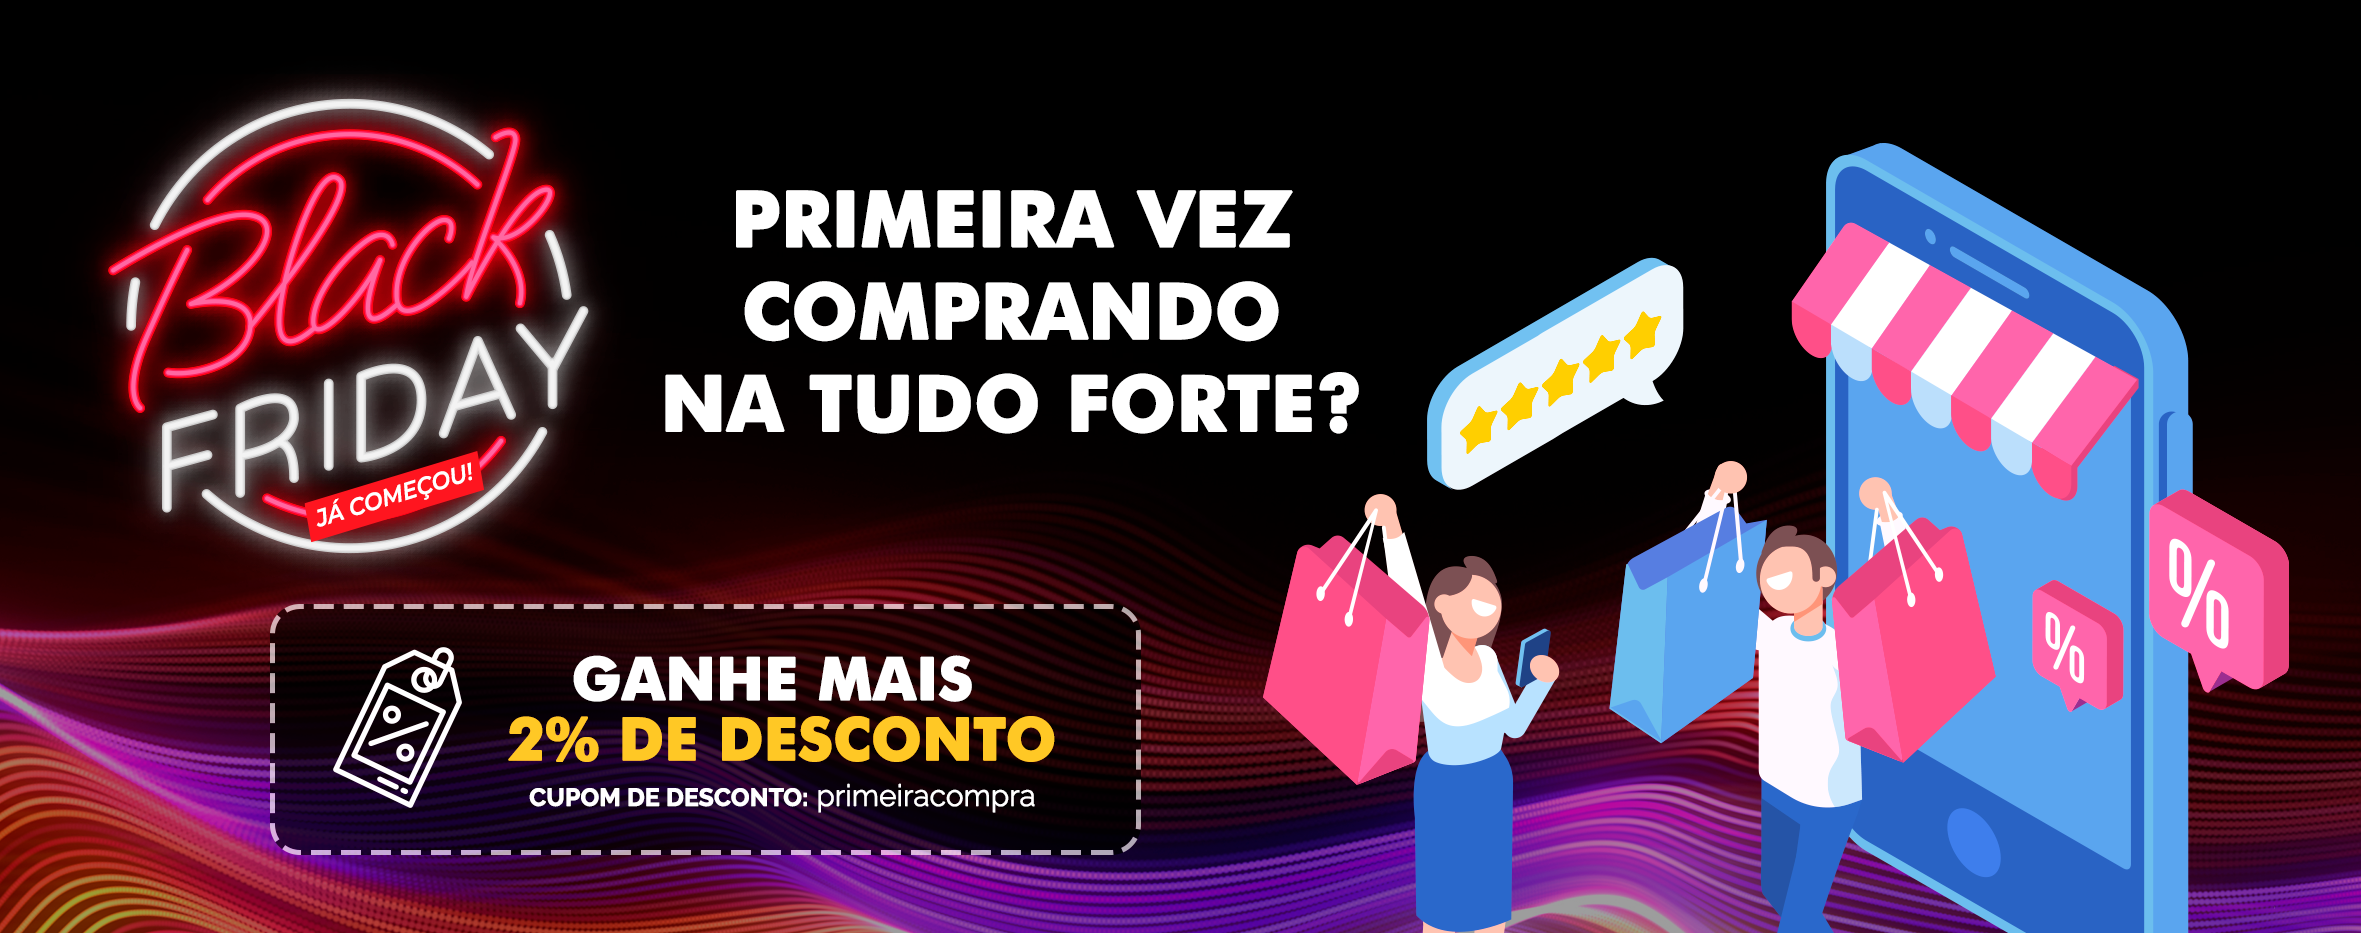
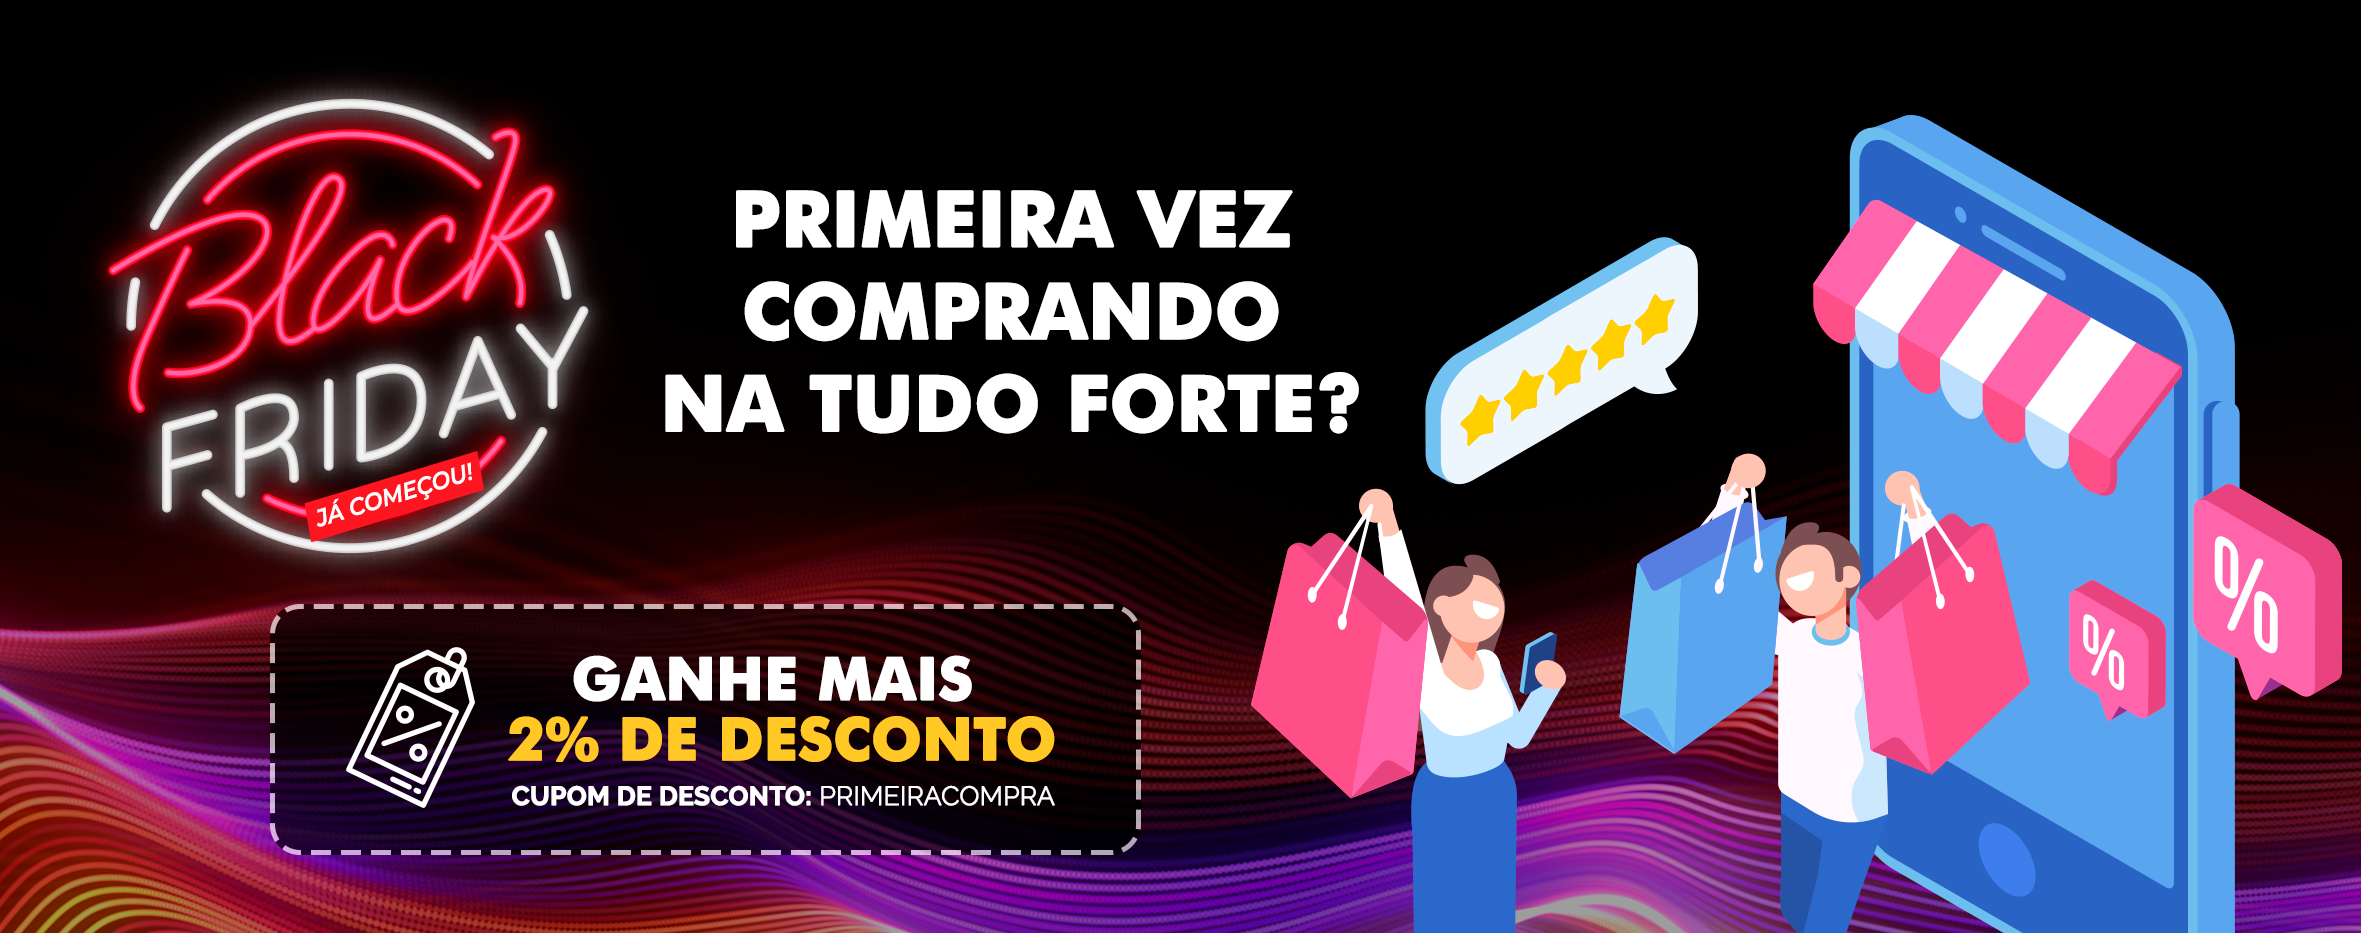
atulização layout

diff --git a/index-layout-novo-estilo-black.html b/index-layout-novo-estilo-black.html
@@ -23,8 +23,9 @@
     cellspacing="0" align="center" style="margin-top:5px">
     <tbody>
       <tr>
-        <td><a href="https://www.tudoforte.com.br" target="_blank"><img width="420px" height="60px" cellpadding="0"
-              cellspacing="0" border="0" alt="Topo" src="img/banner-logo-tudo-forte.png" class="CToWUd"> </a>
+        <td><a href="https://www.tudoforte.com.br/loja/busca.php?loja=332274?pg_avancada=1&somente_lancamento=1"
+            target="_blank"><img width="420px" height="60px" cellpadding="0" cellspacing="0" border="0" alt="Topo"
+              src="img/banner-logo-tudo-forte.png" class="CToWUd"> </a>
         </td>
 
         <td><a href="https://www.google.com/shopping/ratings/account/metrics?q=tudoforte.com.br&c=BR&v=4&hl=pt_BR"
@@ -46,8 +47,9 @@
     <tbody>
       <tr>
         <td>
-          <div style="max-width:600px;width:100%"><a href="https://www.tudoforte.com.br" target="_blank"><img
-                cellpadding="0" cellspacing="0" alt=" Tudo Em Até 10x Sem Juros ou 7% Off à Vista"
+          <div style="max-width:600px;width:100%"><a
+              href="https://www.tudoforte.com.br/loja/busca.php?loja=332274?pg_avancada=1&somente_lancamento=1"
+              target="_blank"><img cellpadding="0" cellspacing="0" alt=" Tudo Em Até 10x Sem Juros ou 7% Off à Vista"
                 style="display:block;border-radius:5px 5px 5px 5px;width:600px;height:auto;border-width:0px;border-style:solid"
                 src="img/banner-site-abandonado-13112019.png" class="CToWUd"> </a></div>
         </td>
@@ -63,7 +65,7 @@
         <td style="padding-top: 30px; border-top-right-radius: 5px; border-top-left-radius: 5px">
           <a target="_blank"
             style="font-size: 1.3rem; color: black; font-family: Arial, Helvetica, sans-serif; text-transform: uppercase; font-weight: bold; text-align: center;  margin-bottom: 20px; text-decoration: none;"
-            href="https://www.tudoforte.com.br/kit-cameras-de-seguranca-cftv">
+            href="https://www.tudoforte.com.br/loja/busca.php?loja=332274?pg_avancada=1&somente_lancamento=1">
             Tudo Em Até 10x Sem Juros ou 7% Off à Vista</a>
 
           <p

diff --git a/index-layout-novo-estilo-black-modelo-3.html b/index-layout-novo-estilo-black-modelo-3.html
@@ -64,14 +64,15 @@
           <a target="_blank"
             style="font-size: 1.3rem; color: black; font-family: Arial, Helvetica, sans-serif; text-transform: uppercase; font-weight: bold; text-align: center;  margin-bottom: 20px; text-decoration: none;"
             href="https://www.tudoforte.com.br/kit-cameras-de-seguranca-cftv">
-            Informe o Código: primeiracompra e ganhe mais 2% OFF para finalizar
+            <span style="color:red">Informe o Cupom: primeiracompra</span> <br />e ganhe mais 2% OFF para finalizar
             seu pedido</a>
 
           <p
             style="font-size: 1.1rem; color: black; font-family: Arial, Helvetica, sans-serif; text-align: justify;  margin-bottom: 20px; text-decoration: none; padding-left: 20px; padding-right: 20px;">
 
-            Sou consultor de Seguran&ccedil;a da <strong>Tudo Forte</strong> e vou te ajudar a melhorar sua a
-            seguran&ccedil;a da sua fam&iacute;lia. Voc&ecirc; possui alguma d&uacute;vida sobre o produto abaixo? Entre
+            Sou consultor de Seguran&ccedil;a da <strong>Tudo Forte</strong> e vou te ajudar a melhorar sua
+            seguran&ccedil;a e da sua fam&iacute;lia. Voc&ecirc; possui alguma d&uacute;vida sobre o produto abaixo?
+            Entre
             em contato pelo nosso <a
               href="https://api.whatsapp.com/send?phone=5511974603077&amp;text=Fale com a Tudo Forte"
               style="text-decoration: none;"> <span style="font-weight: bold; color: #419B59;">WhatsApp</span> <img

diff --git a/index-layout-novo-estilo-black-modelo-2.html b/index-layout-novo-estilo-black-modelo-2.html
@@ -68,9 +68,9 @@
 
           <p
             style="font-size: 1.1rem; color: black; font-family: Arial, Helvetica, sans-serif; text-align: justify;  margin-bottom: 20px; text-decoration: none; padding-left: 20px; padding-right: 20px;">
-            Sou consultor de segurança eletrônica há mais de 10 anos e sei o quanto nós procastinamos (enrolamos) para
-            investir em nossa própria segurança. Não se assuste, isso é normal. A boa noticia é que falta muito pouco
-            para você melhorar sua segurança.Não espere o pior acontecer, invista nisso enqunato é tempo.
+            Sou consultor de segurança eletrônica há mais de 10 anos e sei o quanto nós adiamos para
+            investir em nossa segurança. Não se assuste, isso é normal. A boa noticia é que falta muito pouco
+            para você melhorar sua segurança. Não espere o pior acontecer, priorize sua segurança.
           </p>
 
         </td>
